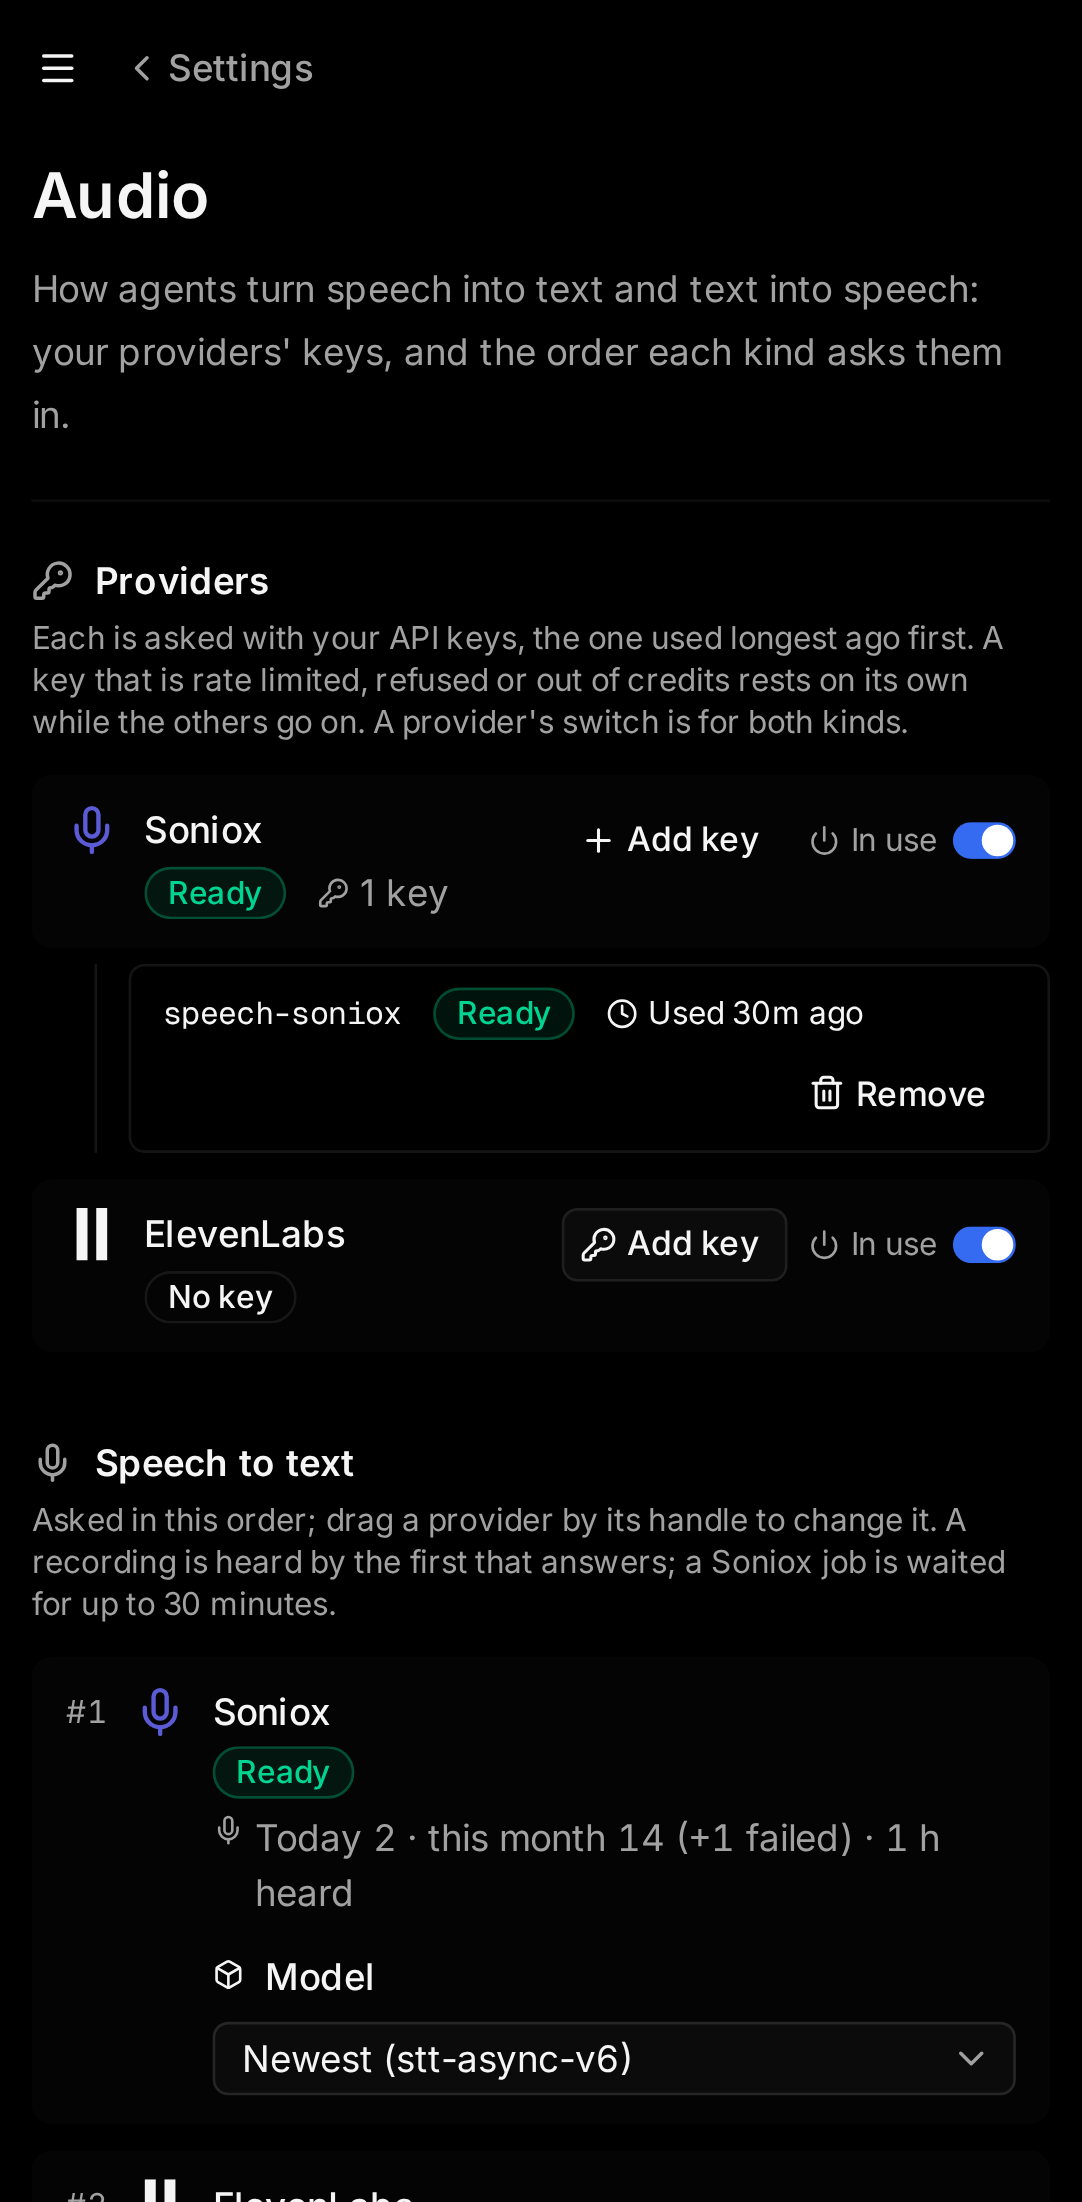
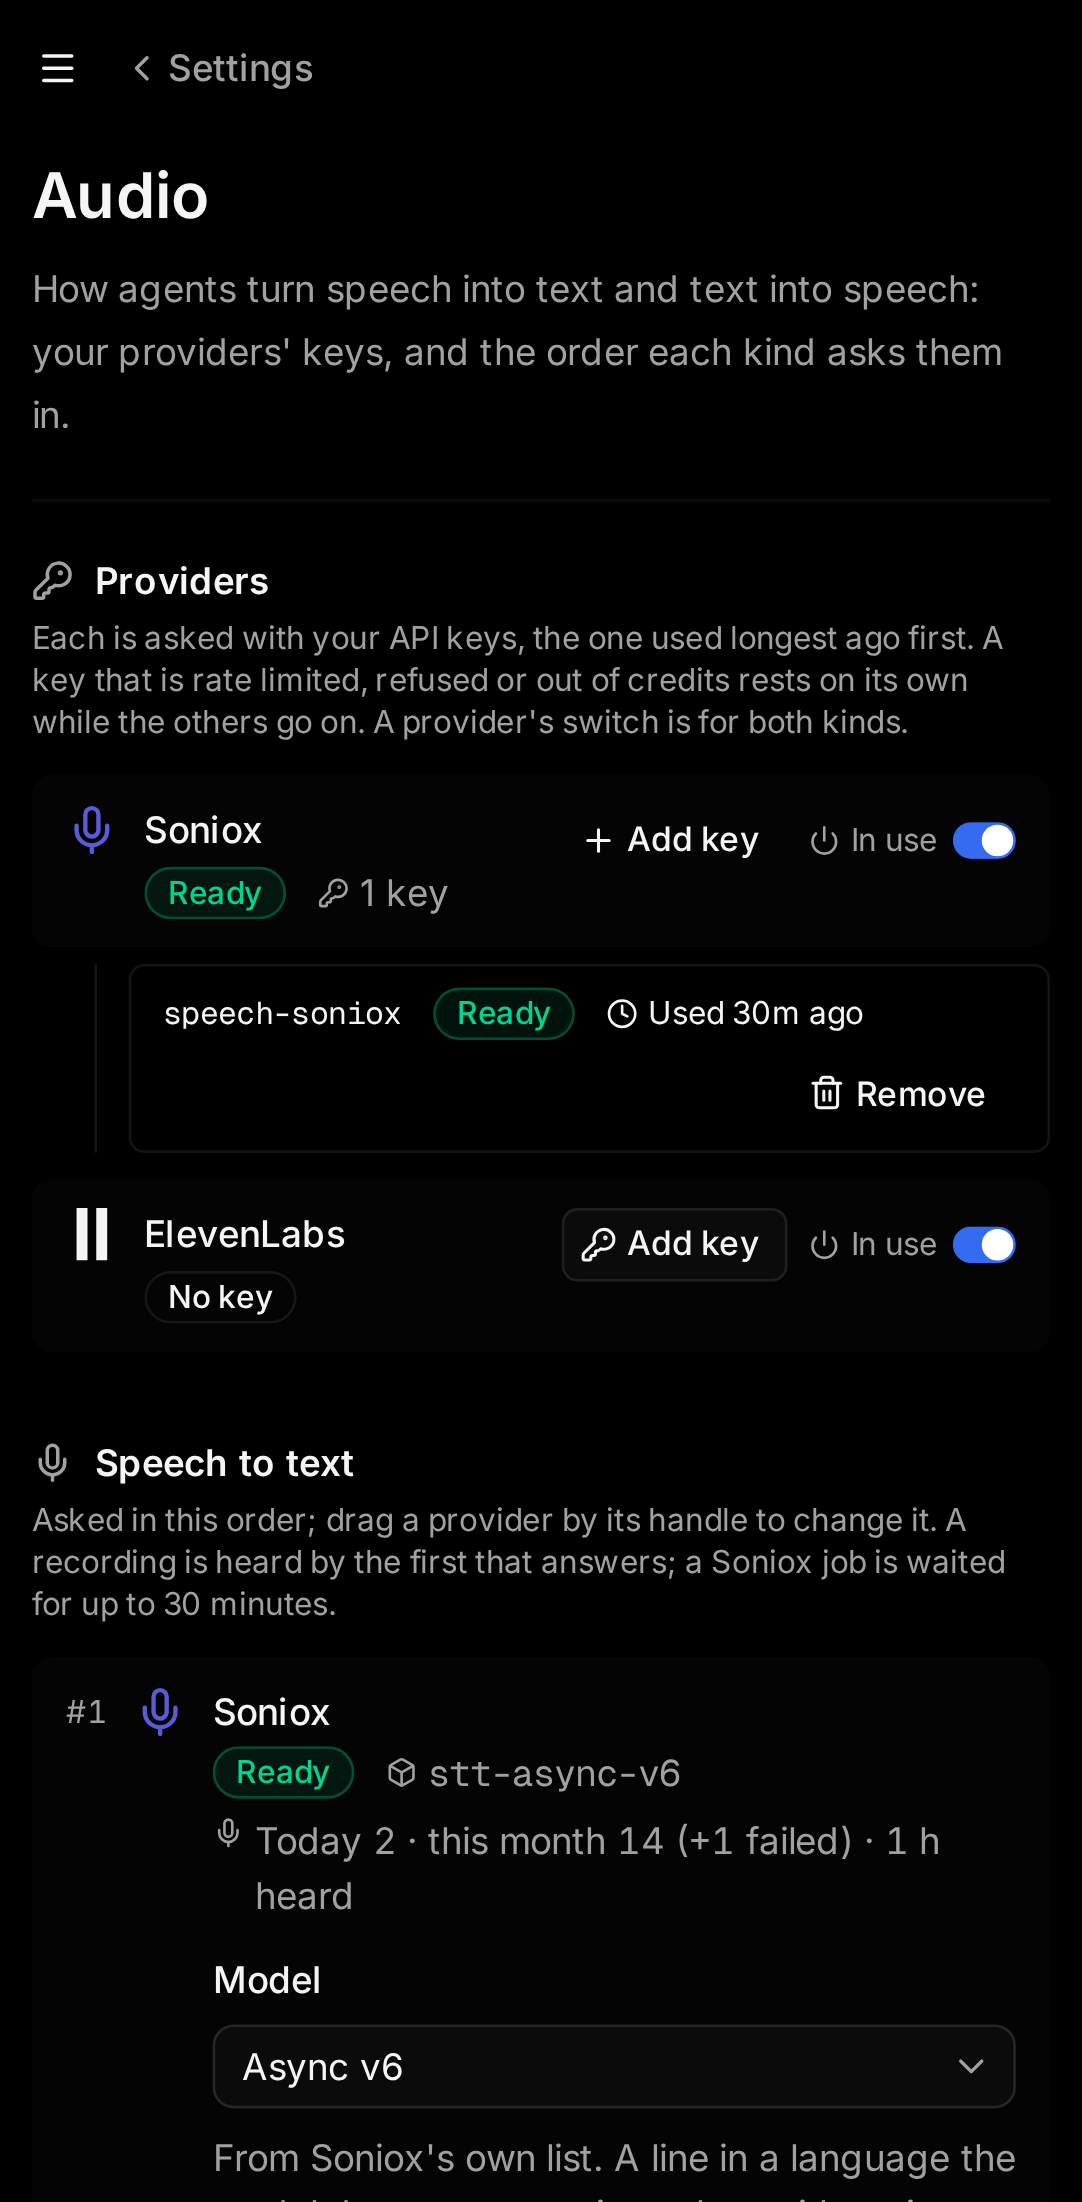
screenshots for #1285, review round 1

diff --git a/index.html b/index.html
@@ -1,25 +1,28 @@
-<!doctype html><meta charset="utf-8"><title>#1285 Settings → Audio pickers and Studio speed</title>
+<!doctype html><meta charset="utf-8"><title>#1285 Audio pickers for Soniox and Studio speed</title>
 <style>body{font-family:system-ui;margin:24px;background:#f6f6f6}h2{margin-top:32px}figure{display:inline-block;margin:8px;vertical-align:top}img{border:1px solid #ccc;max-width:640px}img.phone{max-width:300px}figcaption{font-size:13px;color:#444}</style>
-<h1>Issue #1285: Settings → Audio model and voice pickers, and a speed for each Studio video</h1>
-<p>Playwright shots of <code>web/tests/audio.spec.ts</code> and <code>web/tests/studio.spec.ts</code> against the fake client API, desktop and phone (Pixel 7), dark and light.</p>
-<h2>Studio: Speed in the make dialog (the owner, 2026-11-27)</h2>
-<figure><img src="studio-make-video-speed-desktop.png"><figcaption>desktop, dark, list open</figcaption></figure>
-<figure><img class="phone" src="studio-make-video-speed-phone.png"><figcaption>phone, dark, list open</figcaption></figure>
-<figure><img src="studio-make-video-speed-light-desktop.png"><figcaption>desktop, light, list open</figcaption></figure>
-<figure><img class="phone" src="studio-make-video-speed-light-phone.png"><figcaption>phone, light, list open</figcaption></figure>
-<figure><img src="studio-make-video-desktop.png"><figcaption>desktop, dark, 1.2× chosen</figcaption></figure>
-<figure><img class="phone" src="studio-make-video-phone.png"><figcaption>phone, dark, 1.2× chosen</figcaption></figure>
-<h2>Audio: model per kind (newest by default, then Soniox's catalog)</h2>
-<figure><img src="audio-model-picker-desktop.png"><figcaption>desktop, dark, list open</figcaption></figure>
-<figure><img class="phone" src="audio-model-picker-phone.png"><figcaption>phone, dark, list open</figcaption></figure>
-<figure><img src="audio-model-picker-light-desktop.png"><figcaption>desktop, light, list open</figcaption></figure>
-<figure><img class="phone" src="audio-model-picker-light-phone.png"><figcaption>phone, light, list open</figcaption></figure>
-<h2>Audio: voice for videos, by name</h2>
-<figure><img src="audio-voice-picker-desktop.png"><figcaption>desktop, dark, list open</figcaption></figure>
-<figure><img class="phone" src="audio-voice-picker-phone.png"><figcaption>phone, dark, list open</figcaption></figure>
-<figure><img src="audio-voice-light-desktop.png"><figcaption>desktop, light, a cloned voice shown by name</figcaption></figure>
+<h1>Issue #1285 on #1300's pickers: Soniox's models for each kind, its voices by name, and a speed for each Studio video</h1>
+<p>Playwright shots of <code>web/tests/audio.spec.ts</code> and <code>web/tests/studio.spec.ts</code> (head d691fa7a) against the fake client API, desktop and phone (Pixel 7), dark and light.</p>
+<h2>Soniox's model for each kind</h2>
+<figure><img src="audio-soniox-models-desktop.png"><figcaption>desktop, dark: speech model list open (no transcription models in it)</figcaption></figure>
+<figure><img class="phone" src="audio-soniox-models-phone.png"><figcaption>phone, dark</figcaption></figure>
+<figure><img src="audio-soniox-models-light-desktop.png"><figcaption>desktop, light: transcription model list open</figcaption></figure>
+<figure><img class="phone" src="audio-soniox-models-light-phone.png"><figcaption>phone, light</figcaption></figure>
+<h2>Soniox's voice for videos, by name</h2>
+<figure><img src="audio-soniox-voices-desktop.png"><figcaption>desktop, dark, list open (built-in and cloned)</figcaption></figure>
+<figure><img class="phone" src="audio-soniox-voices-phone.png"><figcaption>phone, dark</figcaption></figure>
+<figure><img src="audio-voice-desktop.png"><figcaption>desktop, dark, "narrator" (cloned) chosen</figcaption></figure>
+<figure><img class="phone" src="audio-voice-phone.png"><figcaption>phone, dark</figcaption></figure>
+<figure><img src="audio-voice-light-desktop.png"><figcaption>desktop, light, after reload</figcaption></figure>
 <figure><img class="phone" src="audio-voice-light-phone.png"><figcaption>phone, light</figcaption></figure>
-<h2>The whole Audio page</h2>
+<h2>Studio: Speed in the make dialog</h2>
+<figure><img src="studio-make-video-speed-desktop.png"><figcaption>desktop, dark, list open</figcaption></figure>
+<figure><img class="phone" src="studio-make-video-speed-phone.png"><figcaption>phone, dark</figcaption></figure>
+<figure><img src="studio-make-video-speed-light-desktop.png"><figcaption>desktop, light</figcaption></figure>
+<figure><img class="phone" src="studio-make-video-speed-light-phone.png"><figcaption>phone, light</figcaption></figure>
+<figure><img src="studio-make-video-desktop.png"><figcaption>desktop, dark, 1.2× chosen</figcaption></figure>
+<figure><img class="phone" src="studio-make-video-phone.png"><figcaption>phone, dark</figcaption></figure>
+<h2>ElevenLabs (#1300, unchanged) and the whole page</h2>
+<figure><img src="audio-elevenlabs-models-desktop.png"><figcaption>desktop, ElevenLabs models</figcaption></figure>
 <figure><img src="audio-providers-desktop.png"><figcaption>desktop, dark</figcaption></figure>
 <figure><img class="phone" src="audio-providers-phone.png"><figcaption>phone, dark</figcaption></figure>
 <figure><img src="audio-providers-light-desktop.png"><figcaption>desktop, light</figcaption></figure>
